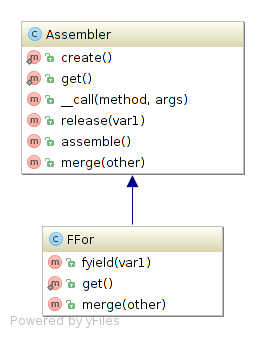
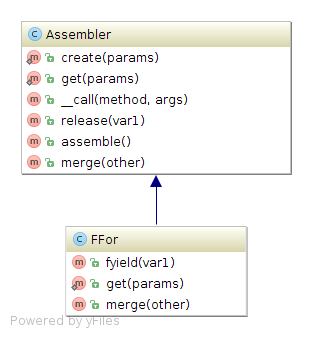
update uml diag

diff --git a/README.md b/README.md
@@ -245,7 +245,7 @@ Install [Composer](https://getcomposer.org/)
 #### For production
 
 <pre>
-    "chippyash/assembly-builder": "~1.0.0"
+    "chippyash/assembly-builder": "~1.1.0"
 </pre>
 
 Or to use the latest, possibly unstable version:
